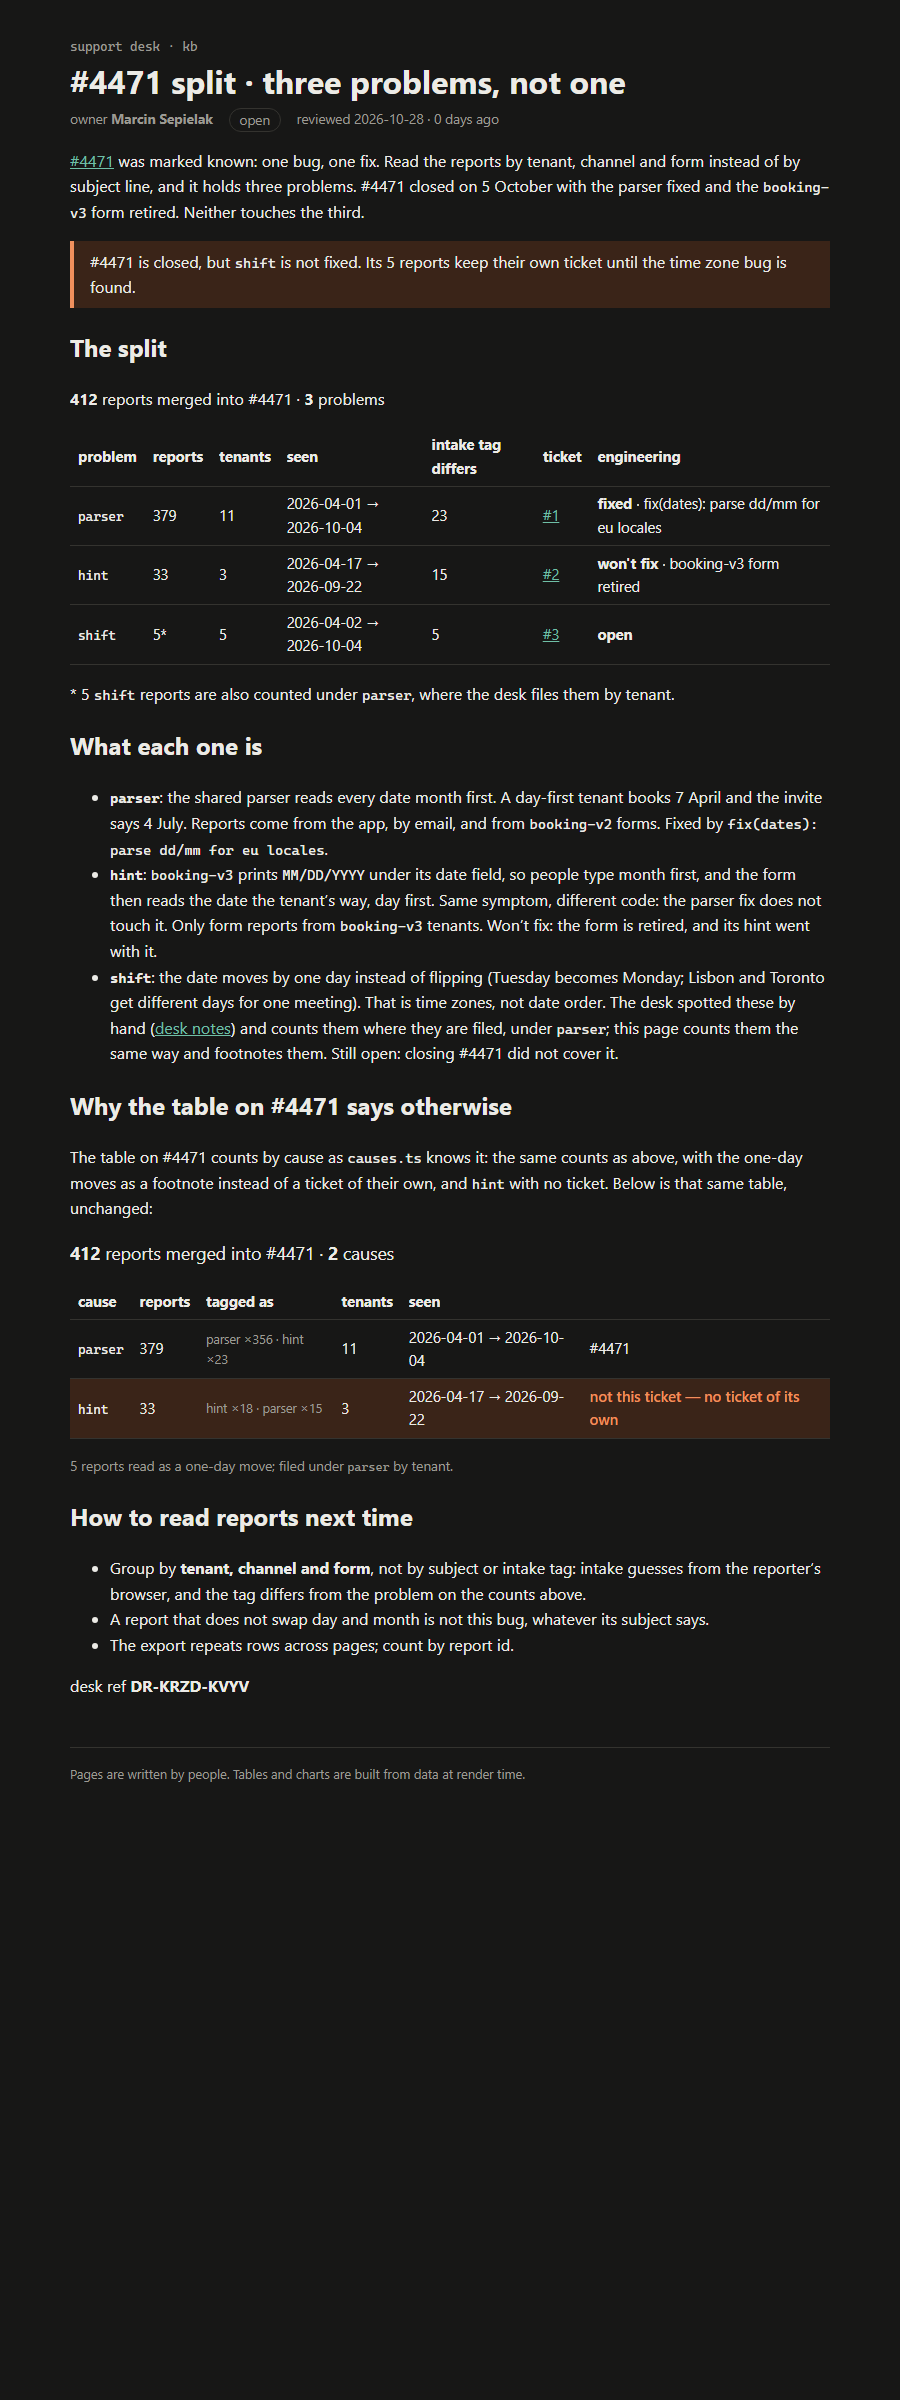
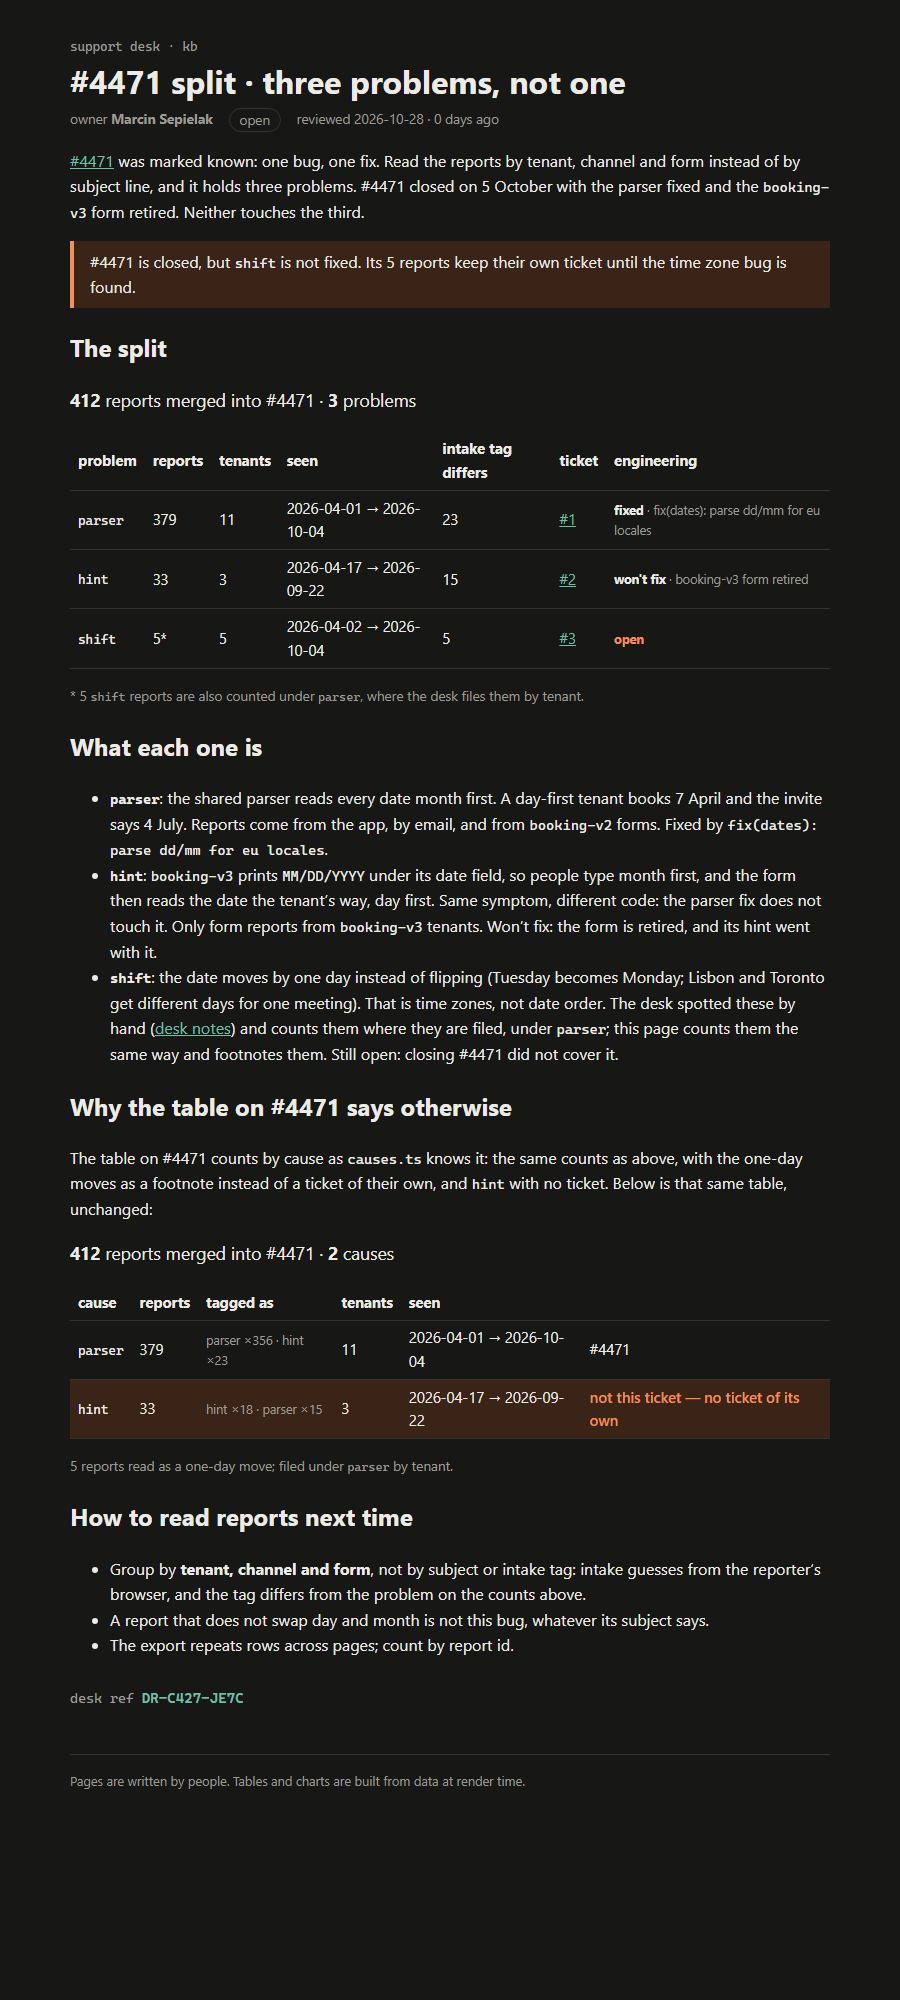
Sign the split page as Sepcio88 (desk ref DR-C427-JE7C)

diff --git a/support-kb/rendered/4471-split.html b/support-kb/rendered/4471-split.html
@@ -3,19 +3,19 @@
   <head>
     <meta charset="utf-8" />
     <meta name="viewport" content="width=device-width, initial-scale=1" />
-    <link href="../../_app/immutable/entry/start.2VM9PyOm.js" rel="modulepreload">
+    <link href="../../_app/immutable/entry/start.yr9Npce6.js" rel="modulepreload">
 		<link href="../../_app/immutable/chunks/DnoyNMba.js" rel="modulepreload">
-		<link href="../../_app/immutable/chunks/DF-tuZIC.js" rel="modulepreload">
+		<link href="../../_app/immutable/chunks/Bip9zlgT.js" rel="modulepreload">
 		<link href="../../_app/immutable/chunks/DXhvxdpI.js" rel="modulepreload">
-		<link href="../../_app/immutable/entry/app.DSGMIH0P.js" rel="modulepreload">
+		<link href="../../_app/immutable/entry/app.D74PD0qj.js" rel="modulepreload">
 		<link href="../../_app/immutable/chunks/4HIIzLmj.js" rel="modulepreload">
 		<link href="../../_app/immutable/chunks/B4WlwwdY.js" rel="modulepreload">
 		<link href="../../_app/immutable/chunks/CGyox8To.js" rel="modulepreload">
 		<link href="../../_app/immutable/chunks/gCpT5-Oq.js" rel="modulepreload">
 		<link href="../../_app/immutable/nodes/0.BIUIeQ3I.js" rel="modulepreload">
 		<link href="../../_app/immutable/chunks/BHsyMl1J.js" rel="modulepreload">
-		<link href="../../_app/immutable/nodes/5.Cg-rDqiY.js" rel="modulepreload">
-		<link href="../../_app/immutable/chunks/CO6vrl2Y.js" rel="modulepreload">
+		<link href="../../_app/immutable/nodes/5.ET7-PigJ.js" rel="modulepreload">
+		<link href="../../_app/immutable/chunks/DpzlWOF8.js" rel="modulepreload">
 		<link href="../../_app/immutable/chunks/BMg7KjJ0.js" rel="modulepreload">
 		<link href="../../_app/immutable/chunks/DR7RVcJr.js" rel="modulepreload">
 		<link href="../../_app/immutable/chunks/BsPnvk72.js" rel="modulepreload">
@@ -40,19 +40,19 @@ these by hand (<a href="/kb/incidents/4471">desk notes</a>) and counts them wher
 not cover it.</li></ul> <h2>Why the table on #4471 says otherwise</h2> <p>The table on #4471 counts by cause as <code>causes.ts</code> knows it: the same counts as above, with the
 one-day moves as a footnote instead of a ticket of their own, and <code>hint</code> with no ticket. Below is
 that same table, unchanged:</p> <p class="sum svelte-12oyimm"><strong>412</strong> reports merged into #4471 · <strong>2</strong> causes</p> <table><thead><tr><th>cause</th><th>reports</th><th>tagged as</th><th>tenants</th><th>seen</th><th></th></tr></thead><tbody><!--[--><tr class="svelte-12oyimm"><td class="svelte-12oyimm"><code>parser</code></td><td class="svelte-12oyimm">379</td><td class="tags svelte-12oyimm">parser ×356 · hint ×23</td><td class="svelte-12oyimm">11</td><td class="svelte-12oyimm">2026-04-01 → 2026-10-04</td><td class="svelte-12oyimm">#4471</td></tr><tr class="svelte-12oyimm wrong"><td class="svelte-12oyimm"><code>hint</code></td><td class="svelte-12oyimm">33</td><td class="tags svelte-12oyimm">hint ×18 · parser ×15</td><td class="svelte-12oyimm">3</td><td class="svelte-12oyimm">2026-04-17 → 2026-09-22</td><td class="svelte-12oyimm">not this ticket — no ticket of its own</td></tr><!--]--></tbody></table> <!--[--><!--[0--><p class="note svelte-12oyimm">5 reports read as a one-day move; filed under <code>parser</code> by tenant.</p><!--]--><!--[-1--><!--]--><!--]--><!----> <h2>How to read reports next time</h2> <ul><li>Group by <strong>tenant, channel and form</strong>, not by subject or intake tag: intake guesses from the
-reporter’s browser, and the tag differs from the problem on the counts above.</li> <li>A report that does not swap day and month is not this bug, whatever its subject says.</li> <li>The export repeats rows across pages; count by report id.</li></ul> <!--[0--><p class="stamp svelte-1280m42">desk ref <b class="svelte-1280m42">DR-KRZD-KVYV</b></p><!--]--><!----><!----></main> <footer class="svelte-e2jw2j">Pages are written by people. Tables and charts are built from data at render time.</footer></div><!--]--><!----><!--]--><!--]--> <!--[-1--><!--]--><!--]-->
+reporter’s browser, and the tag differs from the problem on the counts above.</li> <li>A report that does not swap day and month is not this bug, whatever its subject says.</li> <li>The export repeats rows across pages; count by report id.</li></ul> <!--[0--><p class="stamp svelte-1280m42">desk ref <b class="svelte-1280m42">DR-C427-JE7C</b></p><!--]--><!----><!----></main> <footer class="svelte-e2jw2j">Pages are written by people. Tables and charts are built from data at render time.</footer></div><!--]--><!----><!--]--><!--]--> <!--[-1--><!--]--><!--]-->
 			
 			<script>
 				{
-					__sveltekit_16lmf81 = {
+					__sveltekit_9w9myf = {
 						base: new URL("../..", location).pathname.slice(0, -1)
 					};
 
 					const element = document.currentScript.parentElement;
 
 					Promise.all([
-						import("../../_app/immutable/entry/start.2VM9PyOm.js"),
-						import("../../_app/immutable/entry/app.DSGMIH0P.js")
+						import("../../_app/immutable/entry/start.yr9Npce6.js"),
+						import("../../_app/immutable/entry/app.D74PD0qj.js")
 					]).then(([kit, app]) => {
 						kit.start(app, element, {
 							node_ids: [0, 5],
